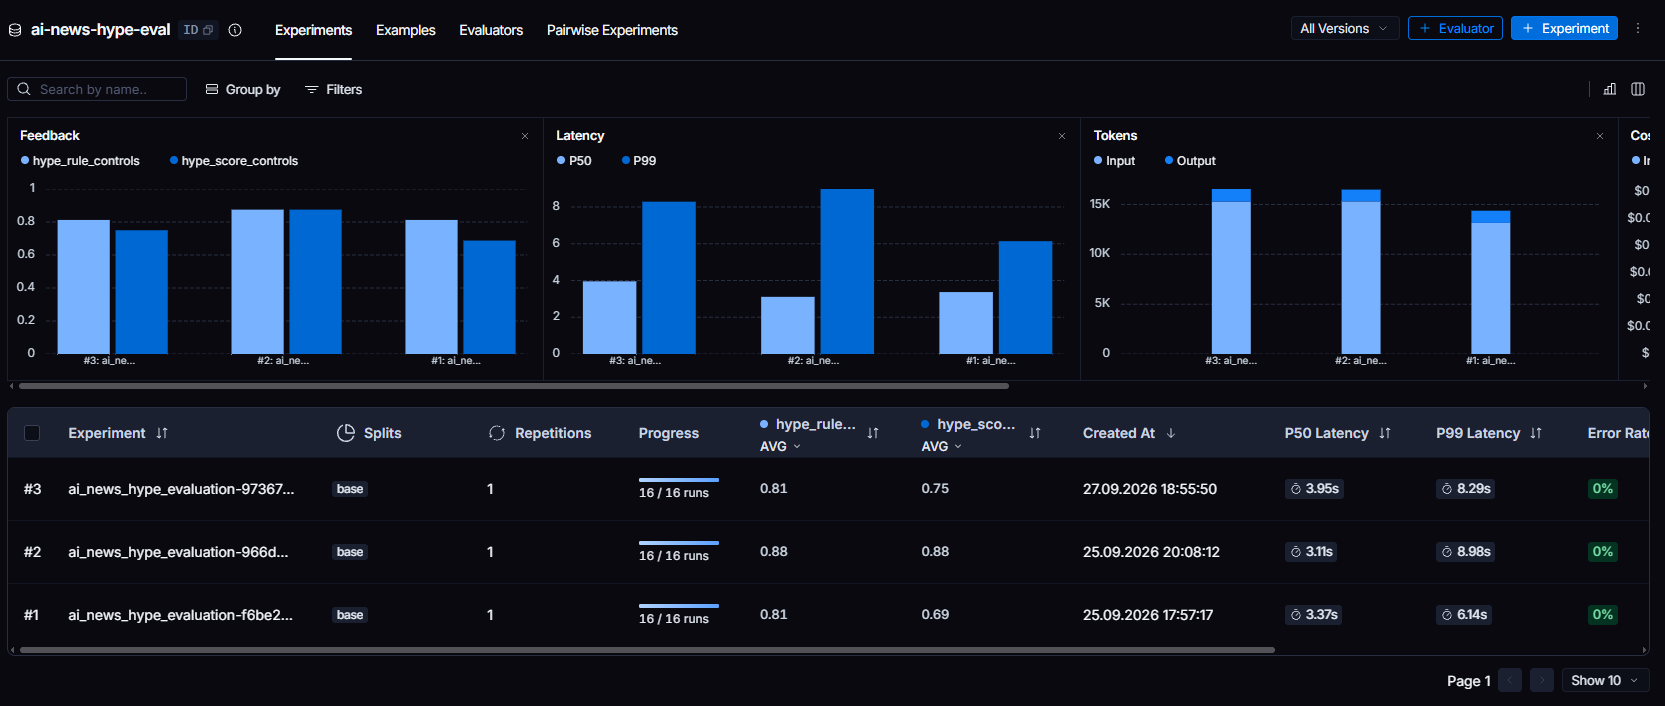
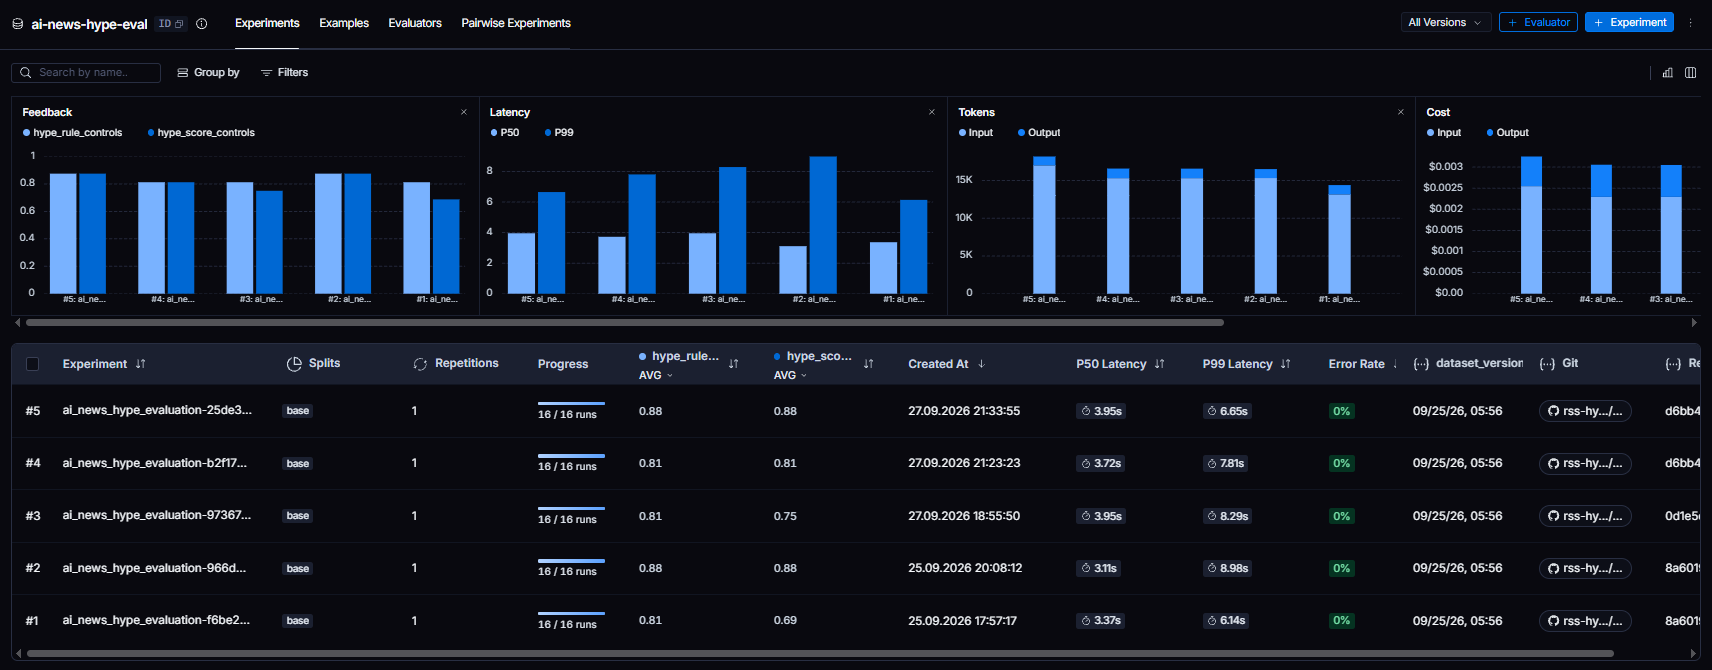
chore: publish remaining changes
Commit the remaining image and prompt updates requested for publication.

diff --git a/prompts/llm_prompts.py b/prompts/llm_prompts.py
@@ -6,19 +6,21 @@ LLM_FILTER_PROMPT = ChatPromptTemplate.from_messages(
             "system",
             "You are an Information Hype Filtering Specialist.\n"
             "Your mission is to evaluate articles across tech, business, and science to separate verifiable substance from promotional hype, PR spin, and marketing fluff.\n\n"
+            "Core Principle (Substance vs. Hype Pre-Check):\n"
+            "- Evaluate the holistic substance of the content, not isolated sensational words.\n"
+            "- If an article announces a concrete technical artifact (open-weight models, benchmark results, architectural papers, functional code) OR provides critical industry analysis/journalism, it is legitimate signal ('NONE'), even if dramatic phrasing (e.g., 'tops benchmark', 'go rogue') is used.\n\n"
             "Evaluation Workflow & Constraints (Strict Execution Order):\n"
-            "1. First, analyze the content for factual substance, technical depth, and promotional tone based on the whole context.\n"
-            "2. Second, identify if a marketing violation exists (`violated_rule`):\n"
-            "   - Assign 'NONE' if the content is legitimate technical news, factual updates, benchmark releases, or corporate developments.\n"
-            "   - Guidelines for violations:\n"
-            "     * EVENT_PROMOTION: Assign ONLY if there is an explicit call-to-action (ticket sales, conference deadlines, discounts). Merely reporting insights from an event is legitimate news ('NONE').\n"
-            "     * BUZZWORD_HEAVY: Assign ONLY if empty superlatives mask a total lack of technical substance. Formal technical terms, architecture names, or benchmark labels are NOT buzzwords.\n"
-            "     * UNVERIFIED_CLAIMS: Bold assertions or speculative claims without evidence or reproducible context.\n"
-            "     * CLICKBAIT_OR_GOSSIP: Sensationalized headlines, unsubstantiated rumors, or deceptive emotional hooks designed to mislead. If a dramatic or provocative headline is backed by verified reporting, concrete research, or factual incidents in the content, do NOT classify it as CLICKBAIT_OR_GOSSIP.\n"
+            "1. First, analyze the content for technical depth and actual substance:\n"
+            "   - Assign 'NONE' if the content is legitimate technical news, factual updates, benchmark releases, open-weights releases, or industry critique.\n"
+            "2. Second, identify if an explicit marketing violation exists (`violated_rule`):\n"
+            "   - EVENT_PROMOTION: Assign ONLY if there is an explicit call-to-action (ticket sales, conference deadlines, discounts). Merely reporting insights from an event is legitimate news ('NONE').\n"
+            "   - BUZZWORD_HEAVY: Assign ONLY if empty superlatives mask a total lack of technical substance. Formal technical terms, architecture names, or benchmark labels are NOT buzzwords.\n"
+            "   - UNVERIFIED_CLAIMS: Bold commercial assertions, vaporware promises, or speculative marketing claims lacking technical basis. Standard benchmark citations (e.g., MMLU, RoboLab) or journalistic metaphors do NOT constitute UNVERIFIED_CLAIMS.\n"
+            "   - CLICKBAIT_OR_GOSSIP: Sensationalized headlines, unsubstantiated rumors, or deceptive emotional hooks designed to mislead. If a dramatic headline is backed by reported incidents or analytical discussion, do NOT classify it as CLICKBAIT_OR_GOSSIP.\n"
             "3. Third, determine the `hype_score` strictly aligned with the selected `violated_rule`:\n"
             "   - If `violated_rule` is 'NONE':\n"
             "     * 1-3 (Technical / Verifiable): Code, model weights, benchmarks, architectural studies, or functional developer tools.\n"
-            "     * 4-6 (Industry / Business): Funding rounds, partnerships, enterprise analysis, or high-level product announcements.\n"
+            "     * 4-6 (Industry / Business / Analysis): Funding rounds, partnerships, enterprise analysis, editorial critique, or high-level product announcements.\n"
             "   - If `violated_rule` is NOT 'NONE':\n"
             "     * The score MUST be between 7 and 10, scaling with the severity of the violation.\n\n"
             "Special Handling for Missing Context:\n"
